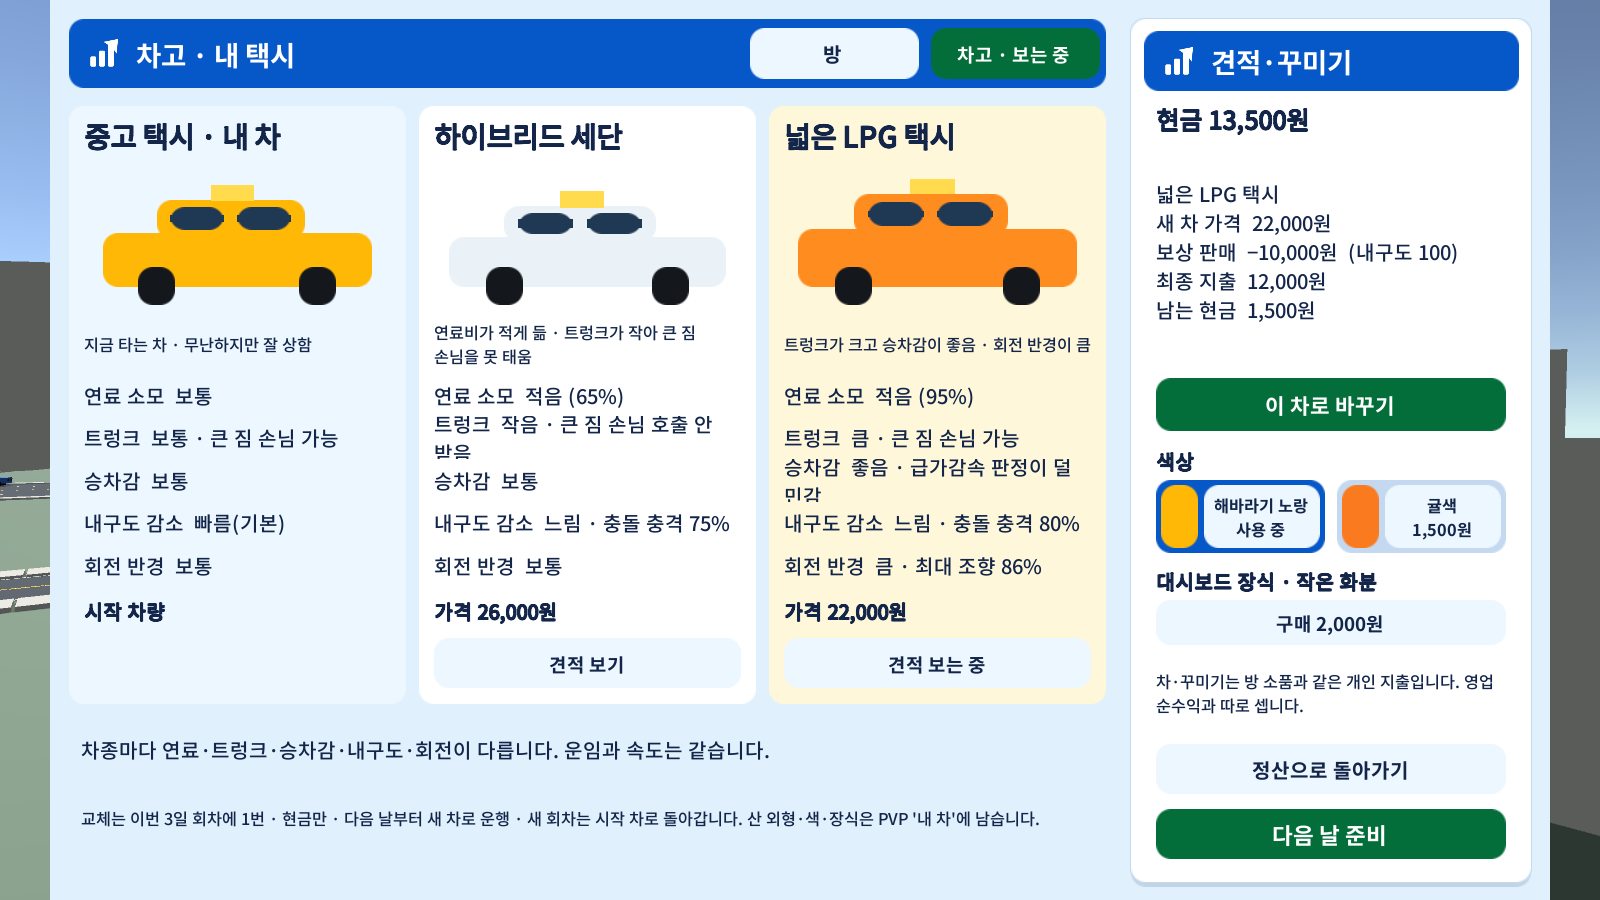
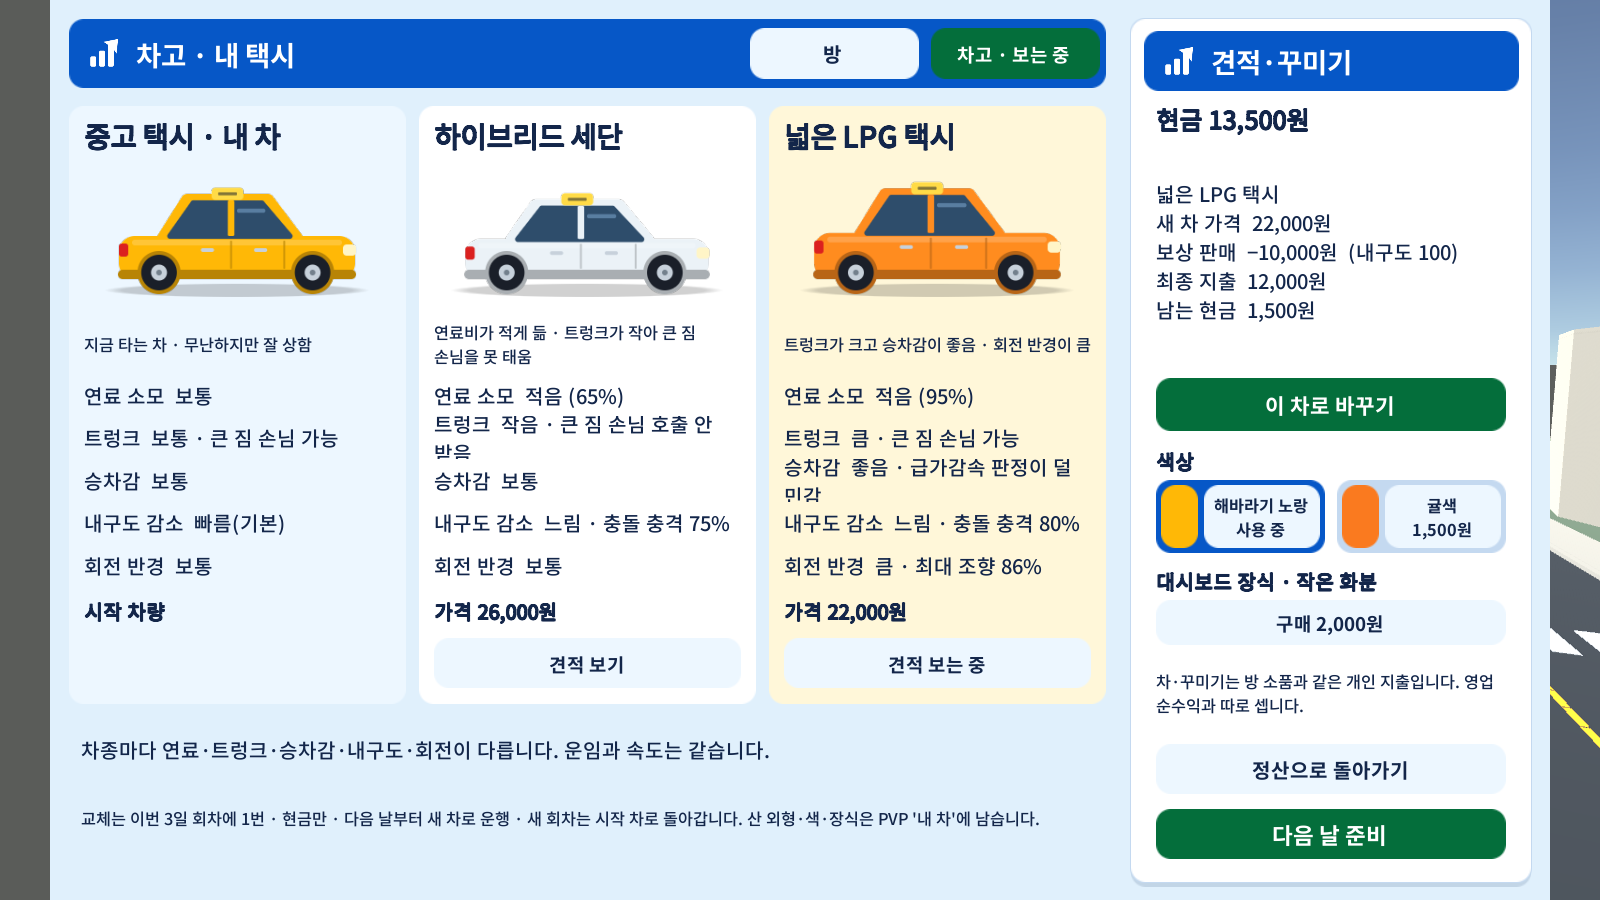
docs: 차량 아이콘·PvP 입장 화면 후속 기록과 캡처 갱신

diff --git a/docs/work-history/2026-11-10-vehicle-purchase-3day.md b/docs/work-history/2026-11-10-vehicle-purchase-3day.md
@@ -78,3 +78,18 @@
 - 게임: `builds/EungyeTaxi/EungyeTaxi.exe` → 은계 싱글 → 하루 정산 → "내 공간 · 방/차고" → 차고. PvP는 입장 화면 "내 차".
 - 개발 검사: 위 표의 명령. Player 검사는 실행본을 쓰며 `artifacts/vehicle-garage-player/`만 초기화한다(개인 저장·해금 파일 미사용).
 - 관리창: `설정 관리.cmd`(Node.js 필요) → 차량 → 차량 구매·꾸미기.
+
+## 후속: 차량 아이콘·PvP 입장 화면 (2026-11-10, 사용자 피드백)
+
+요청: 차량 아이콘을 다른 UI 크기에 맞춰 다시 그리기, PvP "내 이름"→"닉네임"과 자동 입력, 내 차 선택을 같은 아이콘·크기로, 화분 올리기 제거, PvP 기본 시간 15분.
+
+| 구현 | 파일 |
+|---|---|
+| 둥근 사각형 조합 대신 안티앨리어싱 측면 아이콘(320×160 캐시 텍스처, 차종 비율·도색·창·바퀴·등·지붕 표시등) 차고·PvP 공용 | `Assets/Scripts/VehicleIcon.cs`, `VehicleGarageHUD.cs` |
+| "닉네임" 표기, 저장된 이름이 없으면 처음 열 때 "기사"+4자리 자동 입력·저장(수정 가능) | `PvpPrototypePanel.cs`, `DriveFlowPolicy.cs`(`EnsureName`) |
+| 내 차: 차고와 같은 아이콘 카드 3개(선택 테두리·잠김 흐리게), 색 칩 버튼 2개, 화분 토글 제거(싱글에서 샀으면 자동 표시) | `PvpPrototypePanel.cs`, `VehicleCatalog.cs`(`PvpVehicleLook.Owned`) |
+| 경기 시간 기본 900초(15분), 30~7200 편집 가능 | `PvpPrototypePanel.cs` |
+
+검증: `test_vehicle_garage.ps1` 55 PASS, BuildHybrid exit0, `test_vehicle_garage_player.ps1 -Visible` 3모드 PASS(캡처 갱신), `test_pvp_native_lan.ps1` exit0, 통합/PVP manifest VerifyOnly exit0(143파일 127,430,378바이트). 커밋 `c3fd1d1`(코드)·`30bce76`(실행본).
+
+**작업 사고와 처리:** 같은 폴더에서 거리뷰 점검 세션이 유턴 수정을 진행 중이었는데, 첫 시도에서 Scripts 폴더 단위로 스테이징해 그 세션의 미완료 파일 4개가 커밋에 섞였고 빌드에도 그 수정과 바뀐 지도 JSON이 들어갔다. push 전이었으므로 두 커밋을 `git reset --mixed d84e1b8`로 되돌리고(작업 트리·그 세션 파일 보존, 참고용 `backup/ui-contaminated-20261110`), 분리 git worktree에서 내 파일만으로 다시 빌드·검사했다. 이후 스테이징은 파일 경로를 명시한다.

diff --git a/docs/work-history/LATEST.md b/docs/work-history/LATEST.md
@@ -7,9 +7,9 @@
 | 항목 | 상태 |
 |---|---|
 | 실행 | `builds/EungyeTaxi/EungyeTaxi.exe` — 은계 싱글 3일 / A2 자체 도시 PvP(봇3 또는 LAN 최대 4명) |
-| 빌드 | Unity 2022.3.62f2, `PrototypeBuild.BuildHybrid`. **브랜치 `feature/vehicle-purchase-3day`**: 게임 소스 e254c55 · 출하 484c9bc (11/10, main 미병합). main 기준은 소스 548fe8b · 출하 a978b3b (11/09) |
+| 빌드 | Unity 2022.3.62f2, `PrototypeBuild.BuildHybrid`. **브랜치 `feature/vehicle-purchase-3day`**: 게임 소스 c3fd1d1 · 출하 30bce76 (11/10, main 미병합). main 기준은 소스 548fe8b · 출하 a978b3b (11/09) |
 | 통신 | 브랜치 LAN **v17**(내 차 외형) / main LAN v16. 양쪽 PC 같은 실행본 필요, v16↔v17 접속 거부 |
-| 배포 검사 | 브랜치 출하 143파일 127,423,944바이트, 통합/PvP manifest VerifyOnly 통과(11/10 kimhs-NW2). main은 127,378,253바이트 |
+| 배포 검사 | 브랜치 출하 143파일 127,430,378바이트, 통합/PvP manifest VerifyOnly 통과(11/10 kimhs-NW2). main은 127,378,253바이트 |
 | 필수 로컬 입력 | 정식 지도 `config/maps/project/eungye.project.json`(Git) 준비됨, 11/10 Strict issues 0(PowerShell 7 필요, 5.1에서는 검사 스크립트 실패). 재수입용 JSON 2개는 선택 입력이며 없음 |
 | 기획 | [기획22](../content-design/22-growth-direction-and-vehicle-purchase.md) **구현(사람 검증 전, 브랜치)** · 평점 보류 · [기획23](../content-design/23-license-career-path.md) 면허 경로 본편 보류 |
 | 제안서 | [V9 28장](../proposals/project-b-game-proposal-v9.pptx) · [반영 검토](../proposals/proposal-v9-review.md) |

diff --git a/docs/CURRENT-STATE.md b/docs/CURRENT-STATE.md
@@ -13,7 +13,7 @@
 | 게임 실행 | `builds/EungyeTaxi/EungyeTaxi.exe` (또는 `Play-Eungye.cmd`). 실행 폴더 전체가 필요 |
 | 모드 | 은계 싱글 3일(하루 예정 20분) / A2 자체 도시 PvP(봇 3 또는 LAN 최대 4명) |
 | 개발 | Unity **2022.3.62f2**, 프로젝트 `unity/EungyeTaxi`, 빌드 `PrototypeBuild.BuildHybrid` |
-| 최신 배포 | main: 게임 소스 548fe8b · 출하 a978b3b (2026-11-09). 브랜치 `feature/vehicle-purchase-3day`: 소스 e254c55 · 출하 484c9bc (2026-11-10, LAN v17, 미병합) |
+| 최신 배포 | main: 게임 소스 548fe8b · 출하 a978b3b (2026-11-09). 브랜치 `feature/vehicle-purchase-3day`: 소스 c3fd1d1 · 출하 30bce76 (2026-11-10, LAN v17, 미병합) |
 | 통신 | 브랜치 LAN **v17**(내 차 외형) / main LAN v16. 양쪽 PC가 같은 실행본이어야 하며 v16↔v17은 접속 거부 |
 | 지도 | 정식 지도 `config/maps/project/eungye.project.json`(Git 포함). 원본 재수입할 때만 지도 ZIP 필요 |
 | 설정 도구 | 루트 `설정 관리.cmd` — 승객·대사·효과·법규·밸런스·차량 가격 조정. **Node.js 필요**(`winget install --id OpenJS.NodeJS.LTS`) |
